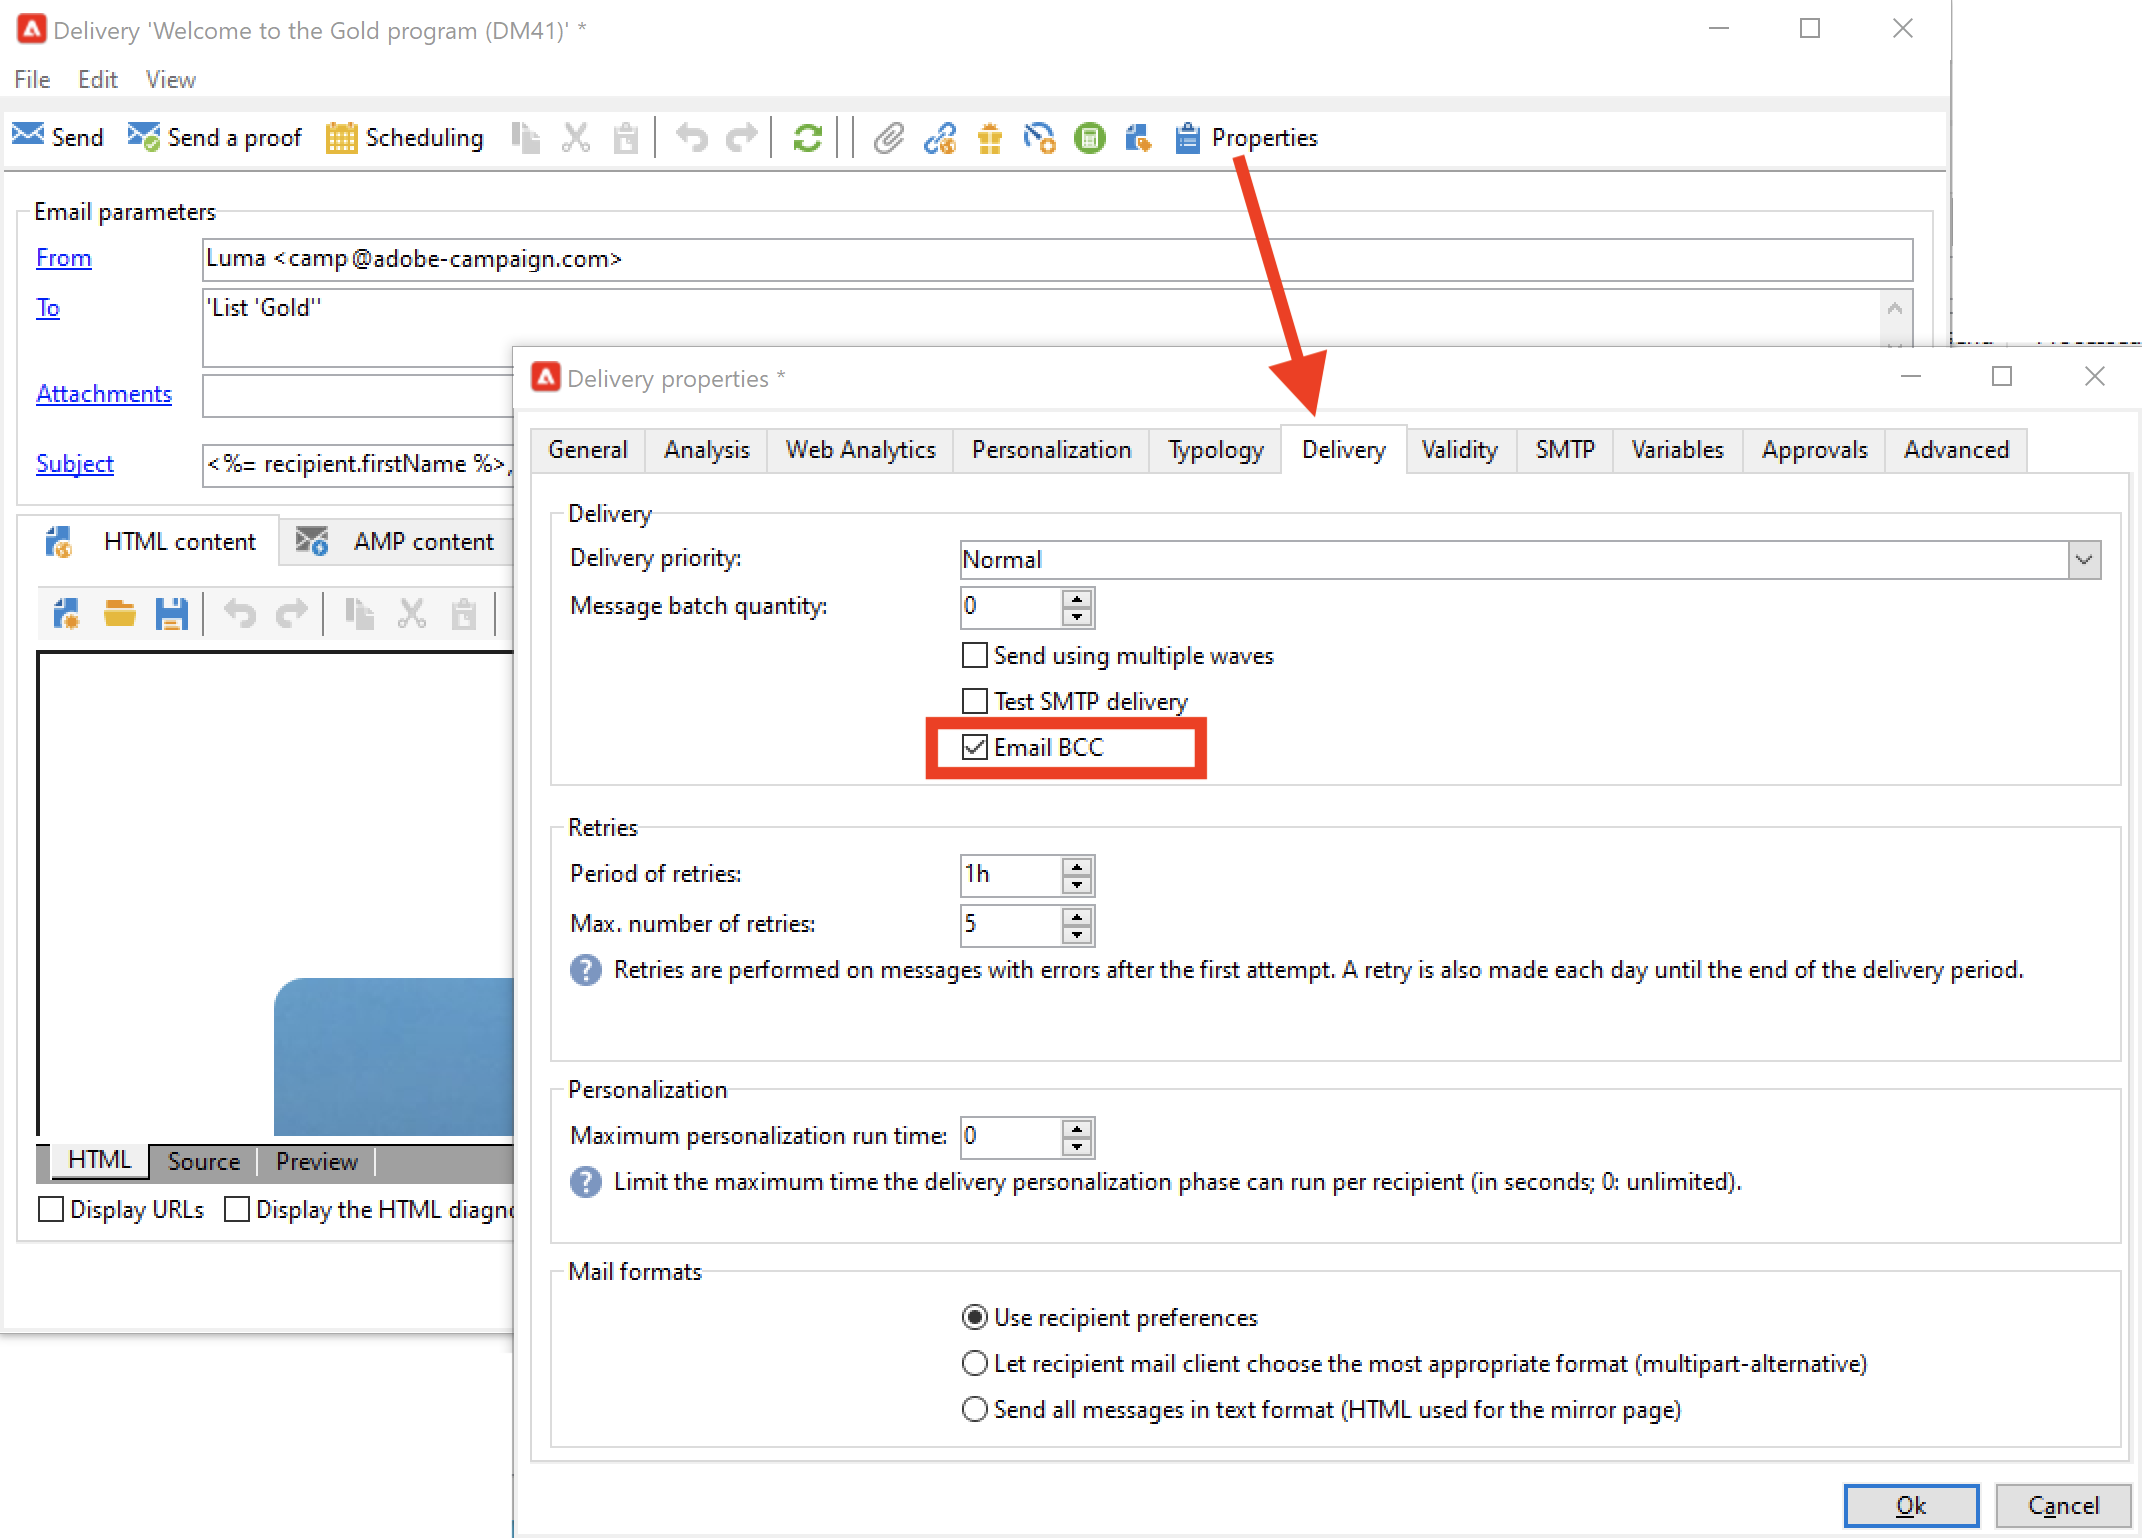
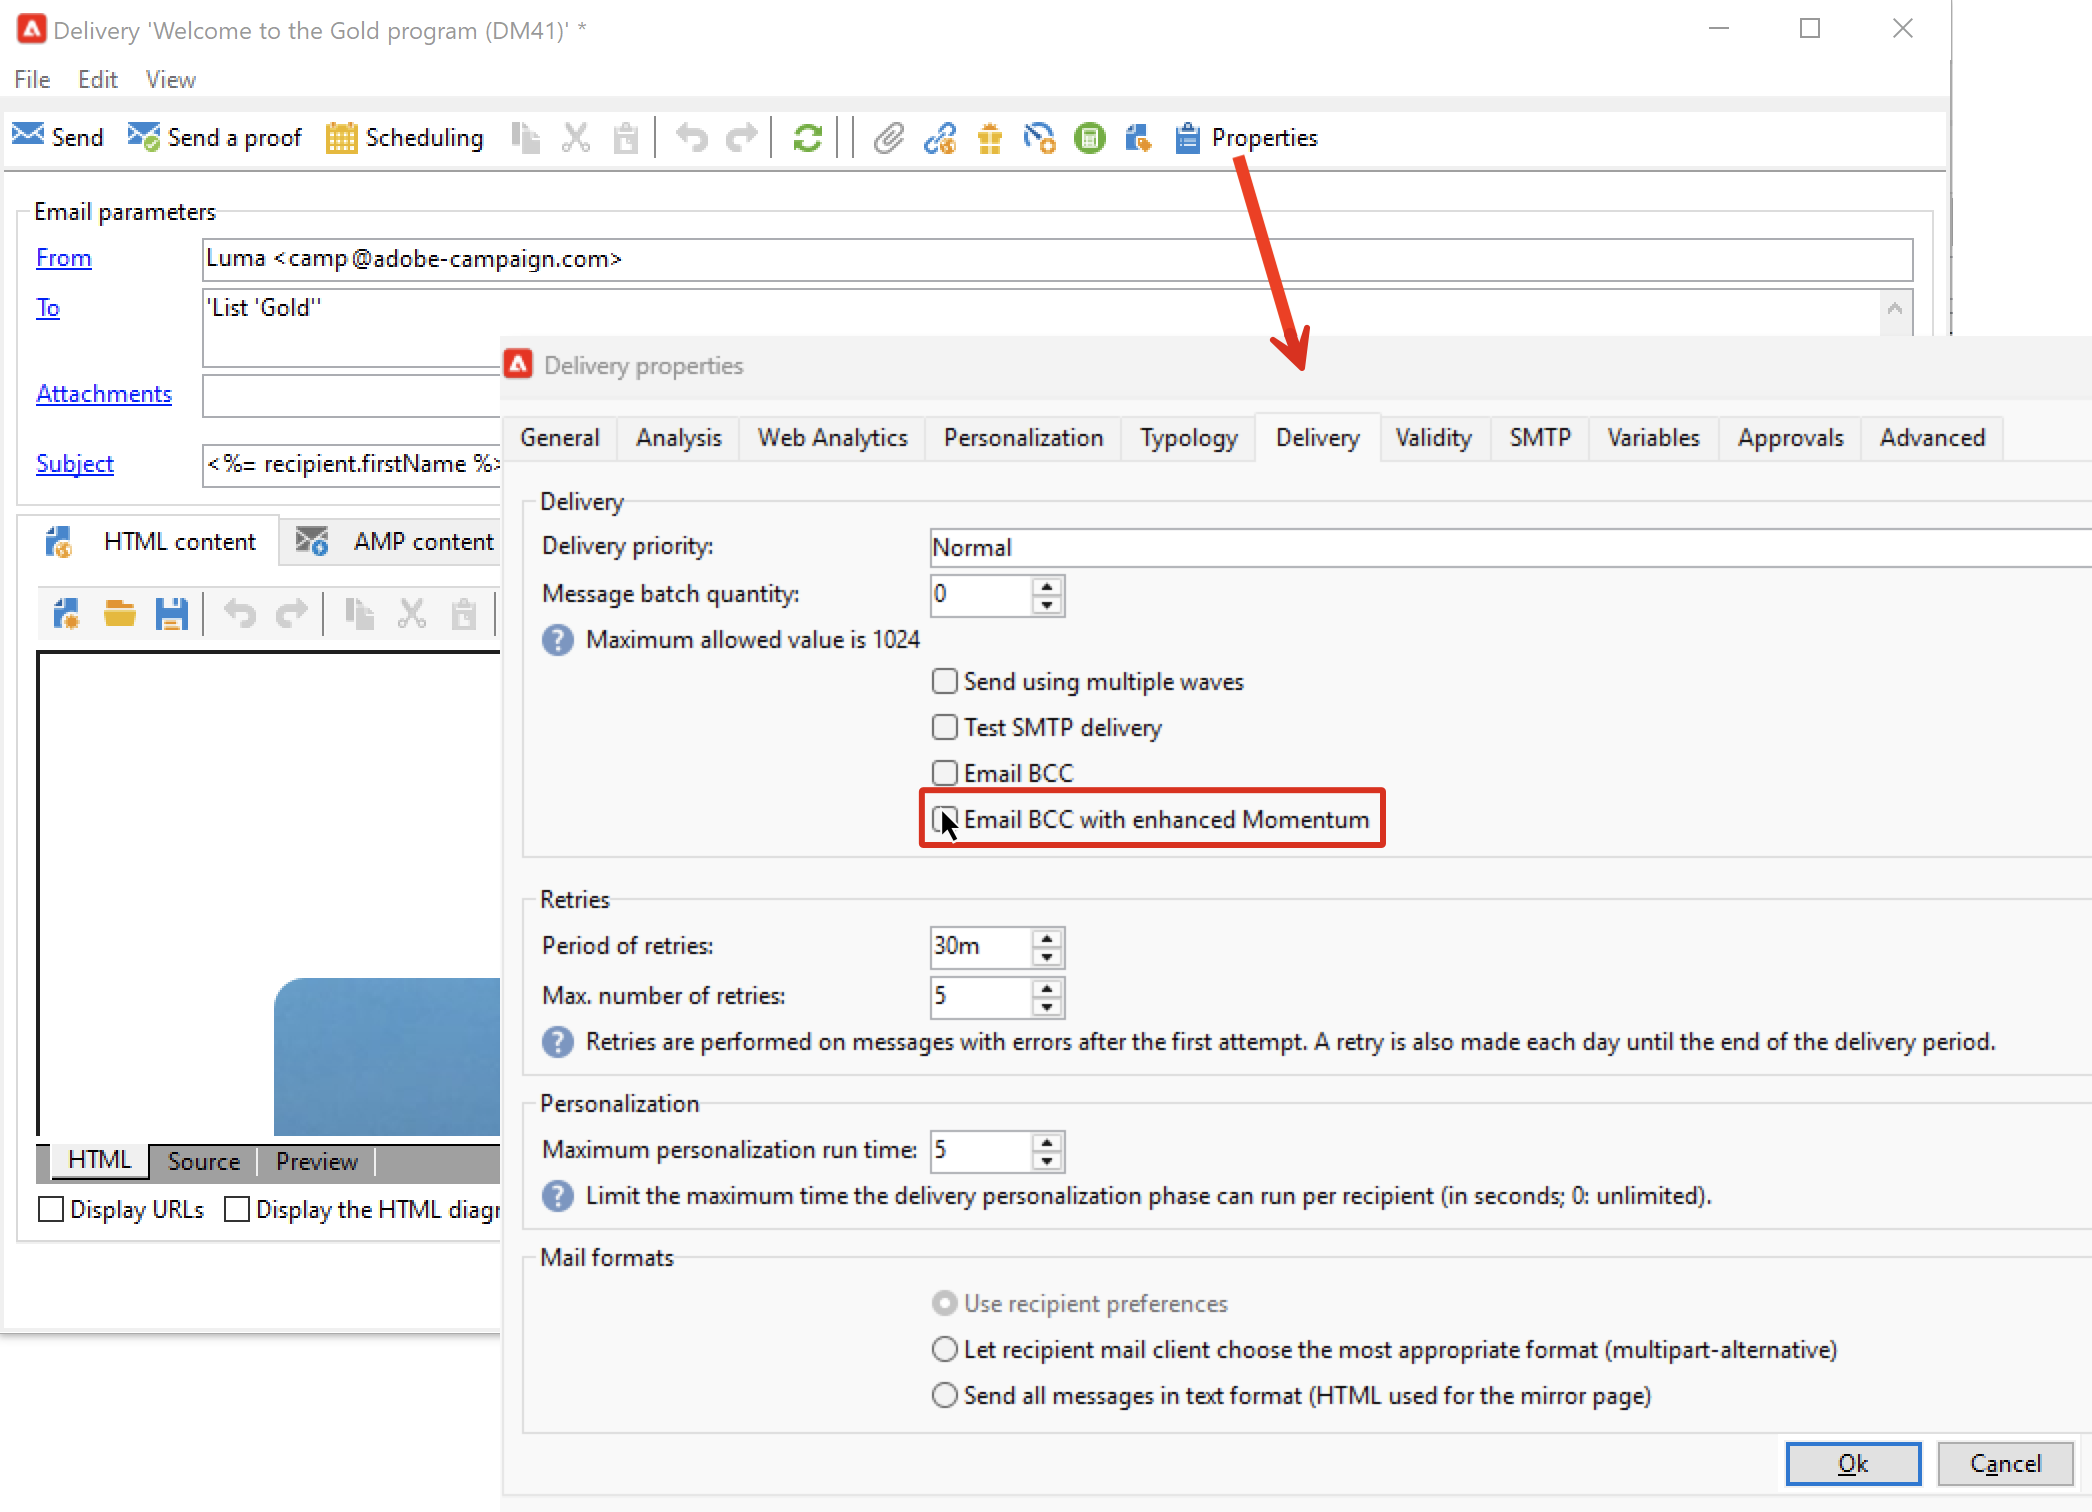
DOCAC-9895 - BCC option updated

diff --git a/help/v8/send/email-bcc.md b/help/v8/send/email-bcc.md
@@ -36,7 +36,7 @@ To enable BCC for a specific [delivery template](create-templates.md), follow th
 1. From Campaign explorer, browse to the delivery templates folder. By default, delivery templates are stored into the **[!UICONTROL Resources]** > **[!UICONTROL Templates]** > **[!UICONTROL Delivery templates]** folder. 
 1. Edit the delivery template to update with BCC.
 1. Click the **[!UICONTROL Properties]** button.
-1. From the **[!UICONTROL Delivery]** tab, check the **[!UICONTROL Email BCC]** option.
+1. From the **[!UICONTROL Delivery]** tab, check the **[!UICONTROL Email BCC with enhanced Momentum]** option.
 
     ![](assets/email-bcc.png)
 
